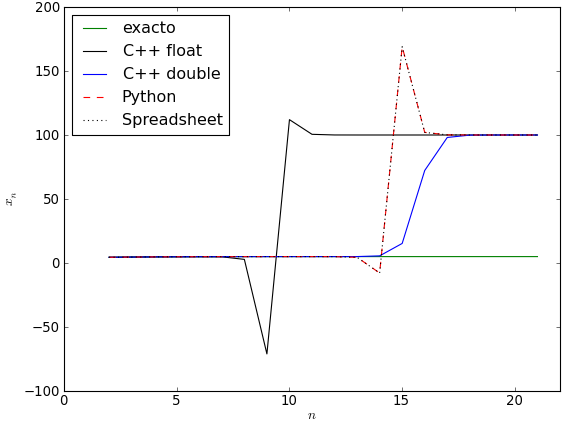
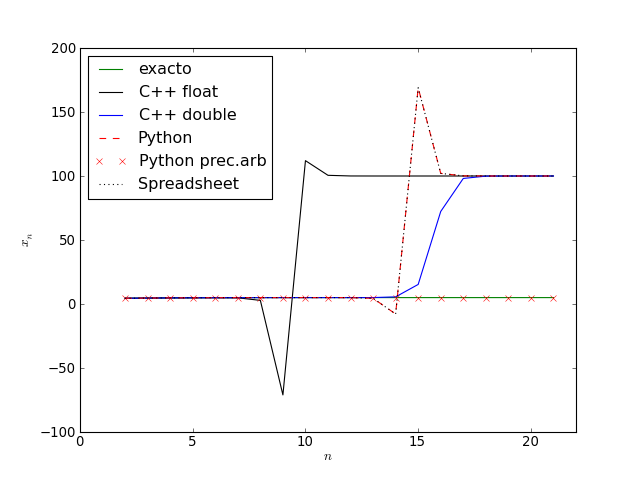
arreglado conflict informe

diff --git a/tp1/informe/informe.tex b/tp1/informe/informe.tex
@@ -254,10 +254,13 @@
 	
 	\begin{usection}{Resultados}
 
-		En este primer gráfico representamos los pares $(x_0,x_1)$ para los cuales el limite teórico es 5, y el punto $(3,3)$ que es el único que tiene límite teórico 3.
+		En este primer gráfico representamos los pares $(x_0,x_1)$ para los cuales el limite teórico es 5 (línea azul),
+		y el punto $(3,3)$ que es el único que tiene límite teórico 3.
+		El resto del plano son los $(x_0,x_1)$ para los cuales el límite es 100.
 		\gra{lim5.png}
-		
-		
+		\\
+		A continuación graficamos los sucesivos valores de $x_n$ para $1\leq n\leq 20$ con $x_0=2$ y $x_1=8$, comparando el resultado exacto con el resultado de generar la sucesion con la fórmula recurrente usando C++ (con double de presicion).
+		Se observa que a pesar de unos errores importantes el límite es el mismo.
 		\gras{fig_2_8_20.png}{.6}
 		
 		\gras{fig_4_4-25_20.png}{.6}
@@ -361,6 +364,7 @@
 		o sea la \textit{double precision IEEE-754}$^1$.
 
 	\end{usection}
+	
 	\begin{usection}{Conclusiones}
 	\end{usection}
 	
@@ -389,6 +393,21 @@ def xn_exacto(x0,x1,n):
       ag = (10000.-100.*x0-bg*(x0-5.)) / (x0-3.)
       return ( ag*3.**(n+1) + bg*5.**(n+1) + 100.**(n+1) ) /
              ( ag*3.**n + bg*5.**n + 100.**n )
+\end{verbatim}
+
+\bigskip
+\textbf{Algoritmo que calcula la recurrencia, en Python con presicion arbitraria}
+\begin{verbatim}
+from decimal import *
+getcontext().prec=2000    #presicion: 2000 digitos
+x0,x1=tuple(map(Decimal,sys.argv[1:3]))
+n=int(sys.argv[3])
+for i in range(n):
+   #hacer todas las cuentas en presicion arbitraria
+   temp = Decimal(108)-(Decimal(815)-(Decimal(1500)/x0))/x1
+   x0 = x1
+   x1 = temp
+   print x1
 \end{verbatim}
 
 \bigskip
@@ -421,6 +440,9 @@ do{
 
 		\item \texttt{http://steve.hollasch.net/cgindex/coding/ieeefloat.html} \\
 		Estándard de representación de punto flotante más utilizado
+
+		\item \texttt{http://docs.python.org/library/decimal.html}\\ 
+		Documentación de la libreria \texttt{decimal} en Python, para presicion arbitraria
 	\end{enumerate}	
 	
 	\end{usection}

diff --git a/tp1/plotmanual.py b/tp1/plotmanual.py
@@ -24,6 +24,7 @@ x0,x1=4.,4.25
 floats =[4.47059,4.64474,4.77053,4.85545,4.90575,4.84165,2.8218,-71.0303,111.99 ,100.534,100.027,100.001,100,100,100,100,100,100,100,100]
 doubles=[4.47059,4.64474,4.77054,4.8557 ,4.91085,4.94554,4.96696,4.98005,4.98798,4.99284,4.9971 ,5.02619,5.57149,15.2844,72.2923,98.0839,99.9023,99.9951,99.9998,100]
 python =[4.47059,4.64474,4.77054,4.85570,4.91085,4.94554,4.96696,4.98004,4.98791,4.99136,4.96746,4.42969,-7.81724,168.93917,102.03996,100.09995,100.00499,100.00025,100.00001,100.00000]
+pythondecimal=[4.47059,4.64474,4.77054,4.85570,4.91085,4.94554,4.96696,4.98005,4.98798,4.99277,4.99566,4.99739,4.99843,4.99906,4.99944,4.99966,4.99980,4.99988,4.99993,4.99996]
 spreadsheet=[4.47059,4.64474,4.77054,4.85570,4.91085,4.94554,4.96696,4.98004,4.98791,4.99136,4.96746,4.42969,-7.81724,168.93917,102.03996,100.09995,100.00499,100.00025,100.00001,100.00000]
 xs=range(2,len(floats)+2)
 exactos=[xn_exacto(x0,x1,n) for n in xs]
@@ -31,6 +32,7 @@ plot(xs,exactos,'g-',label=r"exacto")
 plot(xs,floats,'k-',label=r"C++ float")
 plot(xs,doubles,'b-',label=r"C++ double")
 plot(xs,python,'r--',label=r"Python")
+plot(xs,pythondecimal,'rx',label=r"Python prec.arb")
 plot(xs,spreadsheet,'k:',label=r"Spreadsheet")
 xlabel("$n$")
 ylabel("$x_n$")

diff --git a/tp1/xn_py_decimal.py b/tp1/xn_py_decimal.py
@@ -1,0 +1,11 @@
+#!/usr/bin/env python
+import sys
+from decimal import *
+getcontext().prec=2000
+x0,x1=tuple(map(Decimal,sys.argv[1:3]))
+n=int(sys.argv[3])
+for i in range(n):
+	temp = Decimal(108)-(Decimal(815)-(Decimal(1500)/x0))/x1
+	x0 = x1
+	x1 = temp
+	print "%.5f"%x1
